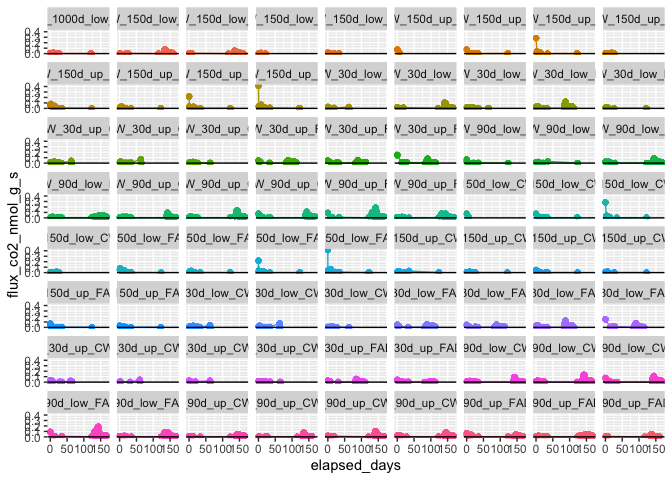
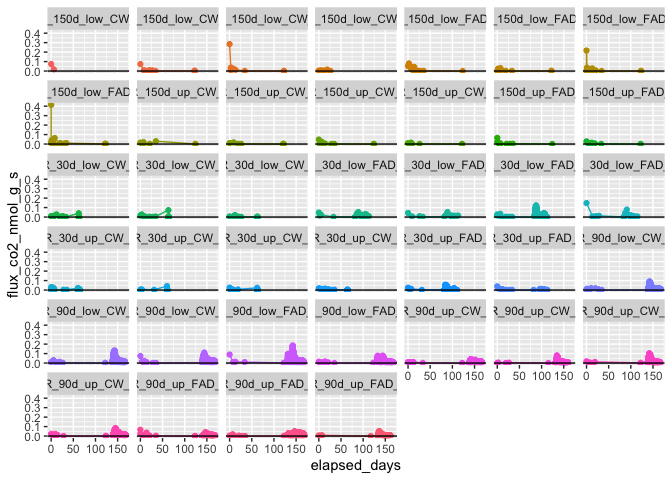
new figures

diff --git a/3e-picarro_markdown.md b/3e-picarro_markdown.md
@@ -17,47 +17,6 @@ Run: 2020-06-05
 
 CO2: nmol\_g\_s
 
-| Core | Core\_assignment         | drying          | length  |   drydown |   drought |       sat | sat\_incubation |
-| ---: | :----------------------- | :-------------- | :------ | --------: | --------: | --------: | --------------: |
-|    4 | CPCRW\_150d\_up\_CW\_r4  | constant weight | 150 day | 0.0003634 | 0.0014278 | 0.0157792 |       0.0493850 |
-|   13 | CPCRW\_150d\_up\_CW\_r2  | constant weight | 150 day | 0.0012432 | 0.0012068 | 0.0215297 |       0.0436993 |
-|   26 | CPCRW\_150d\_up\_CW\_r3  | constant weight | 150 day | 0.0024930 | 0.0008650 | 0.0684338 |       0.0728699 |
-|   28 | CPCRW\_150d\_up\_CW\_r1  | constant weight | 150 day | 0.0004290 | 0.0009010 | 0.0280783 |       0.0375136 |
-|   55 | CPCRW\_150d\_low\_CW\_r4 | constant weight | 150 day | 0.0123503 | 0.0057401 | 0.0399108 |       0.0818176 |
-|   60 | CPCRW\_150d\_low\_CW\_r1 | constant weight | 150 day | 0.0030235 | 0.0023777 | 0.0325893 |       0.0641051 |
-|   62 | CPCRW\_150d\_low\_CW\_r2 | constant weight | 150 day | 0.0012104 | 0.0019062 | 0.0621325 |       0.1056943 |
-|   72 | CPCRW\_150d\_low\_CW\_r3 | constant weight | 150 day | 0.0004615 | 0.0008534 | 0.0210837 |       0.0171802 |
-|    3 | CPCRW\_30d\_up\_CW\_r4   | constant weight | 30 day  | 0.0004878 | 0.0006763 | 0.0503415 |       0.0111161 |
-|    9 | CPCRW\_30d\_up\_CW\_r2   | constant weight | 30 day  | 0.0016600 | 0.0001745 | 0.0207789 |       0.0028003 |
-|   20 | CPCRW\_30d\_up\_CW\_r3   | constant weight | 30 day  | 0.0007709 | 0.0001734 | 0.0140033 |       0.0021965 |
-|   54 | CPCRW\_30d\_low\_CW\_r4  | constant weight | 30 day  | 0.0217253 | 0.0003741 | 0.2295354 |       0.0245922 |
-|   65 | CPCRW\_30d\_low\_CW\_r3  | constant weight | 30 day  | 0.0013400 | 0.0015481 | 0.0505235 |       0.0052149 |
-|   66 | CPCRW\_30d\_low\_CW\_r2  | constant weight | 30 day  | 0.0016848 | 0.0010801 | 0.0184695 |       0.0074627 |
-|   69 | CPCRW\_30d\_low\_CW\_r1  | constant weight | 30 day  | 0.0127141 | 0.0004011 | 0.0325916 |       0.0024441 |
-|   82 | CPCRW\_30d\_up\_CW\_r1   | constant weight | 30 day  | 0.0001829 | 0.0001750 | 0.0123482 |       0.0018689 |
-|    6 | CPCRW\_30d\_up\_FAD\_r1  | forced          | 30 day  | 0.0010543 | 0.0003899 | 0.0457505 |       0.0367173 |
-|   16 | CPCRW\_30d\_up\_FAD\_r2  | forced          | 30 day  | 0.0012021 | 0.0023528 | 0.0105735 |       0.0408560 |
-|   27 | CPCRW\_30d\_up\_FAD\_r3  | forced          | 30 day  | 0.0021623 | 0.0016809 | 0.0522078 |       0.0462512 |
-|   39 | CPCRW\_30d\_up\_FAD\_r4  | forced          | 30 day  | 0.0014786 | 0.0000000 | 0.0657608 |       0.0763462 |
-|   44 | CPCRW\_30d\_low\_FAD\_r3 | forced          | 30 day  | 0.0024380 | 0.0070102 | 0.0340760 |       0.0545602 |
-|   50 | CPCRW\_30d\_low\_FAD\_r1 | forced          | 30 day  | 0.0014407 | 0.0001487 | 0.0175219 |       0.0255058 |
-|   56 | CPCRW\_30d\_low\_FAD\_r4 | forced          | 30 day  | 0.0034783 | 0.0288417 | 0.0652527 |       0.0770335 |
-|   75 | CPCRW\_30d\_low\_FAD\_r2 | forced          | 30 day  | 0.0003492 | 0.0011522 | 0.0031169 |       0.0176387 |
-|   11 | CPCRW\_90d\_up\_CW\_r1   | constant weight | 90 day  | 0.0010552 | 0.0388795 | 0.0456278 |       0.0369977 |
-|   15 | CPCRW\_90d\_up\_CW\_r2   | constant weight | 90 day  | 0.0024447 | 0.0195779 | 0.0202865 |       0.0158044 |
-|   25 | CPCRW\_90d\_up\_CW\_r4   | constant weight | 90 day  | 0.0003448 | 0.0134471 | 0.0157208 |       0.0065307 |
-|   34 | CPCRW\_90d\_up\_CW\_r3   | constant weight | 90 day  | 0.0006795 | 0.0385814 | 0.0459702 |       0.0182782 |
-|   53 | CPCRW\_90d\_low\_CW\_r4  | constant weight | 90 day  | 0.0210307 | 0.1193886 | 0.1399417 |       0.0568124 |
-|   61 | CPCRW\_90d\_low\_CW\_r2  | constant weight | 90 day  | 0.0006184 | 0.0305527 | 0.0336074 |       0.0277897 |
-|   64 | CPCRW\_90d\_low\_CW\_r3  | constant weight | 90 day  | 0.0007403 | 0.0374197 | 0.0445990 |       0.0430868 |
-|   86 | CPCRW\_90d\_low\_CW\_r1  | constant weight | 90 day  | 0.0008207 | 0.0200567 | 0.0236808 |       0.0215712 |
-|    1 | CPCRW\_90d\_up\_FAD\_r1  | forced          | 90 day  | 0.0016607 | 0.0043124 | 0.0144351 |              NA |
-|   18 | CPCRW\_90d\_up\_FAD\_r3  | forced          | 90 day  | 0.0010847 | 0.0005176 | 0.0048511 |              NA |
-|   37 | CPCRW\_90d\_up\_FAD\_r4  | forced          | 90 day  | 0.0024316 | 0.0012539 | 0.0228140 |              NA |
-|   52 | CPCRW\_90d\_low\_FAD\_r3 | forced          | 90 day  | 0.0023530 | 0.0018695 | 0.0087004 |              NA |
-|   71 | CPCRW\_90d\_low\_FAD\_r4 | forced          | 90 day  | 0.0015713 | 0.0024111 | 0.0186221 |              NA |
-|   77 | CPCRW\_90d\_low\_FAD\_r1 | forced          | 90 day  | 0.0032768 | 0.0010954 | 0.0391253 |              NA |
-
 ### tables – by treatment
 
 CO2: nmol\_g\_s
@@ -82,8 +41,27 @@ CO2: nmol\_g\_s
 
 ![](images/markdown-picarro/sr_co2_flux_cores-1.png)<!-- -->
 
+![](images/markdown-picarro/sr_co2_flux_cores2-1.png)<!-- -->
+
 ### by treatment
 
 ![](images/markdown-picarro/sr_co2_flux_trt-1.png)<!-- -->
 
 ![](images/markdown-picarro/sr_co2_flux_trt2-1.png)<!-- -->
+
+### tables – by core
+
+CO2: nmol\_g\_s
+
+### tables – by treatment
+
+CO2: nmol\_g\_s
+
+| drying          | length  |   drydown |   drought |       sat | sat\_incubation |      <NA> |
+| :-------------- | :------ | --------: | --------: | --------: | --------------: | --------: |
+| constant weight | 150 day | 0.0105981 | 0.0021861 |        NA |              NA | 0.0989391 |
+| forced          | 150 day | 0.0131859 | 0.0022645 |        NA |              NA | 0.1461563 |
+| constant weight | 30 day  | 0.0090548 | 0.0018005 | 0.0013462 |              NA | 0.0220704 |
+| forced          | 30 day  | 0.0165348 | 0.0013383 | 0.0296432 |       0.0127297 | 0.1477050 |
+| constant weight | 90 day  | 0.0088140 | 0.0012004 | 0.0175935 |              NA | 0.0353427 |
+| forced          | 90 day  | 0.0088061 | 0.0171287 | 0.0154657 |              NA | 0.0388691 |
